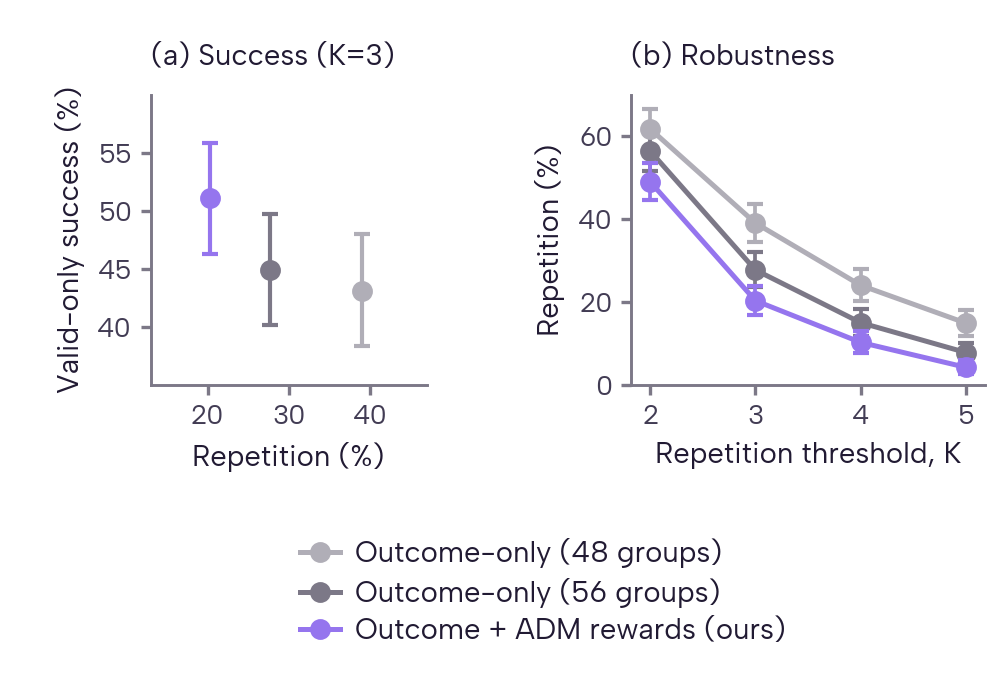
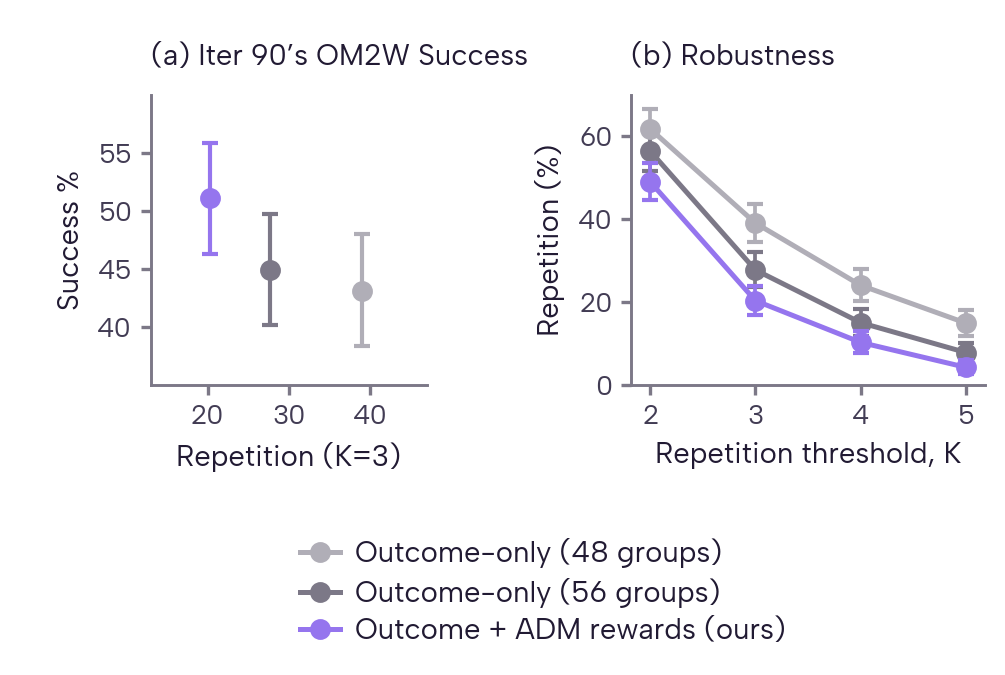
Clarify iteration-90 OM2W success and repetition threshold labels

Changed region(s): [[0.0617, 0.1244, 0.0925, 0.5911], [0.1542, 0.6533, 0.401, 0.7156], [0.1851, 0.0622, 0.5244, 0.0933]]

diff --git a/openwebrl/docs/arm_results/rl_integration/behavior/plot_rl_repetition_success_robustness.py b/openwebrl/docs/arm_results/rl_integration/behavior/plot_rl_repetition_success_robustness.py
@@ -53,9 +53,9 @@ def render():
                        yerr=np.vstack((values - ci[:, 0], ci[:, 1] - values)),
                        color=color, marker="o", markersize=4, linewidth=1.2,
                        capsize=2, elinewidth=0.9, zorder=4 if key == "gate-b" else 3)
-    left_title = left.set_title("(a) Success (K=3)", loc="left", pad=7)
-    left.set_xlabel("Repetition (%)", labelpad=3)
-    left.set_ylabel("Valid-only success (%)", labelpad=3)
+    left_title = left.set_title("(a) Iter 90’s OM2W Success", loc="left", pad=7)
+    left.set_xlabel("Repetition (K=3)", labelpad=3)
+    left.set_ylabel("Success %", labelpad=3)
     left.set_xlim(13, 47)
     left.set_xticks([20, 30, 40])
     left.set_ylim(35, 60)
